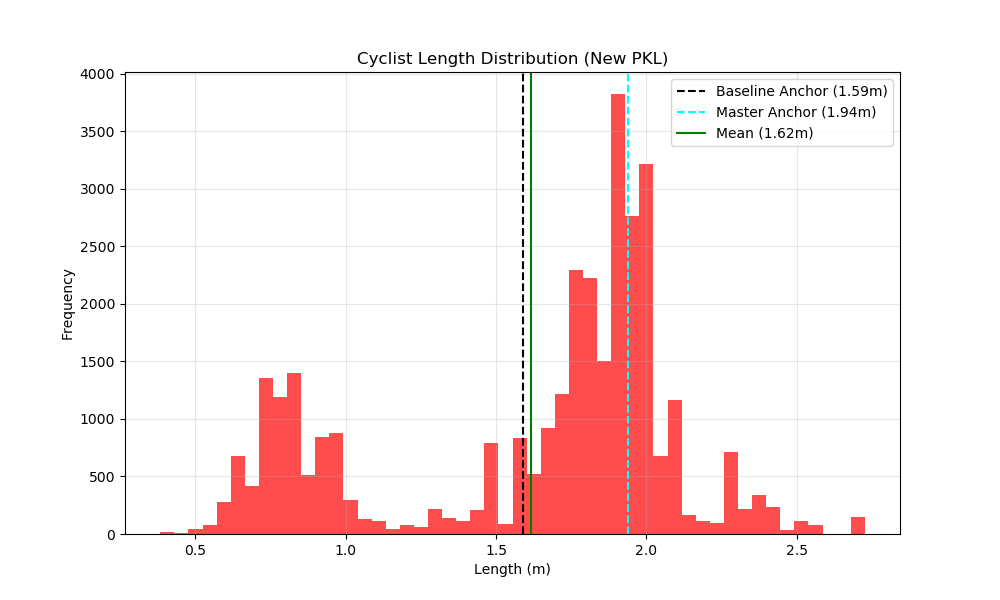
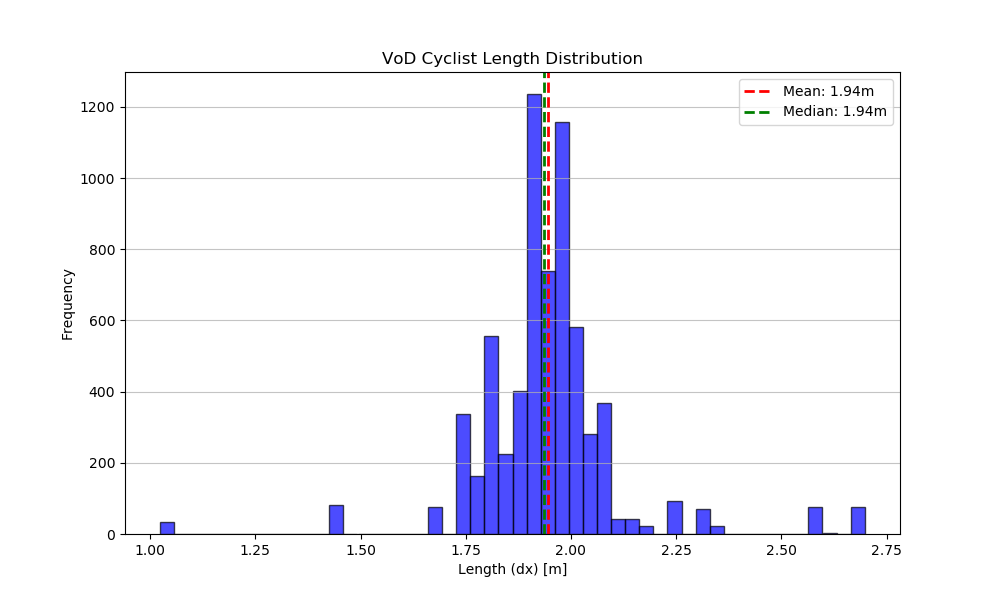
Update anchor verification and cyclist distribution plots with current config
- Regenerate anchor_verification.png from current vod_radarpillar.yaml anchors
- Regenerate cyclist_dist.png showing mean=1.94m aligned with anchor
- Update README descriptions to match new plots

diff --git a/README.md b/README.md
@@ -350,12 +350,12 @@ python tools/plot_cyclist_dist.py    # Cyclist length histogram
 
 <p align="center">
   <img src="docs/visualizations/anchor_verification.png" width="80%" alt="Anchor Verification">
-  <br><em>Black cross = Baseline anchor (1.59m, centered on data). Blue diamond = Master anchor (1.94m, shifted from center)</em>
+  <br><em>GT size distributions with configured anchors — Car (4.17x1.84), Pedestrian (0.65x0.64), Cyclist (1.94x0.79)</em>
 </p>
 
 <p align="center">
   <img src="docs/visualizations/cyclist_dist.png" width="50%" alt="Cyclist Distribution">
-  <br><em>Bimodal cyclist distribution: stationary bicycles vs. moving riders</em>
+  <br><em>Cyclist length distribution (N=6685): mean=1.94m, median=1.94m — anchor aligns with data center</em>
 </p>
 
 ### AP Evolution Plots
